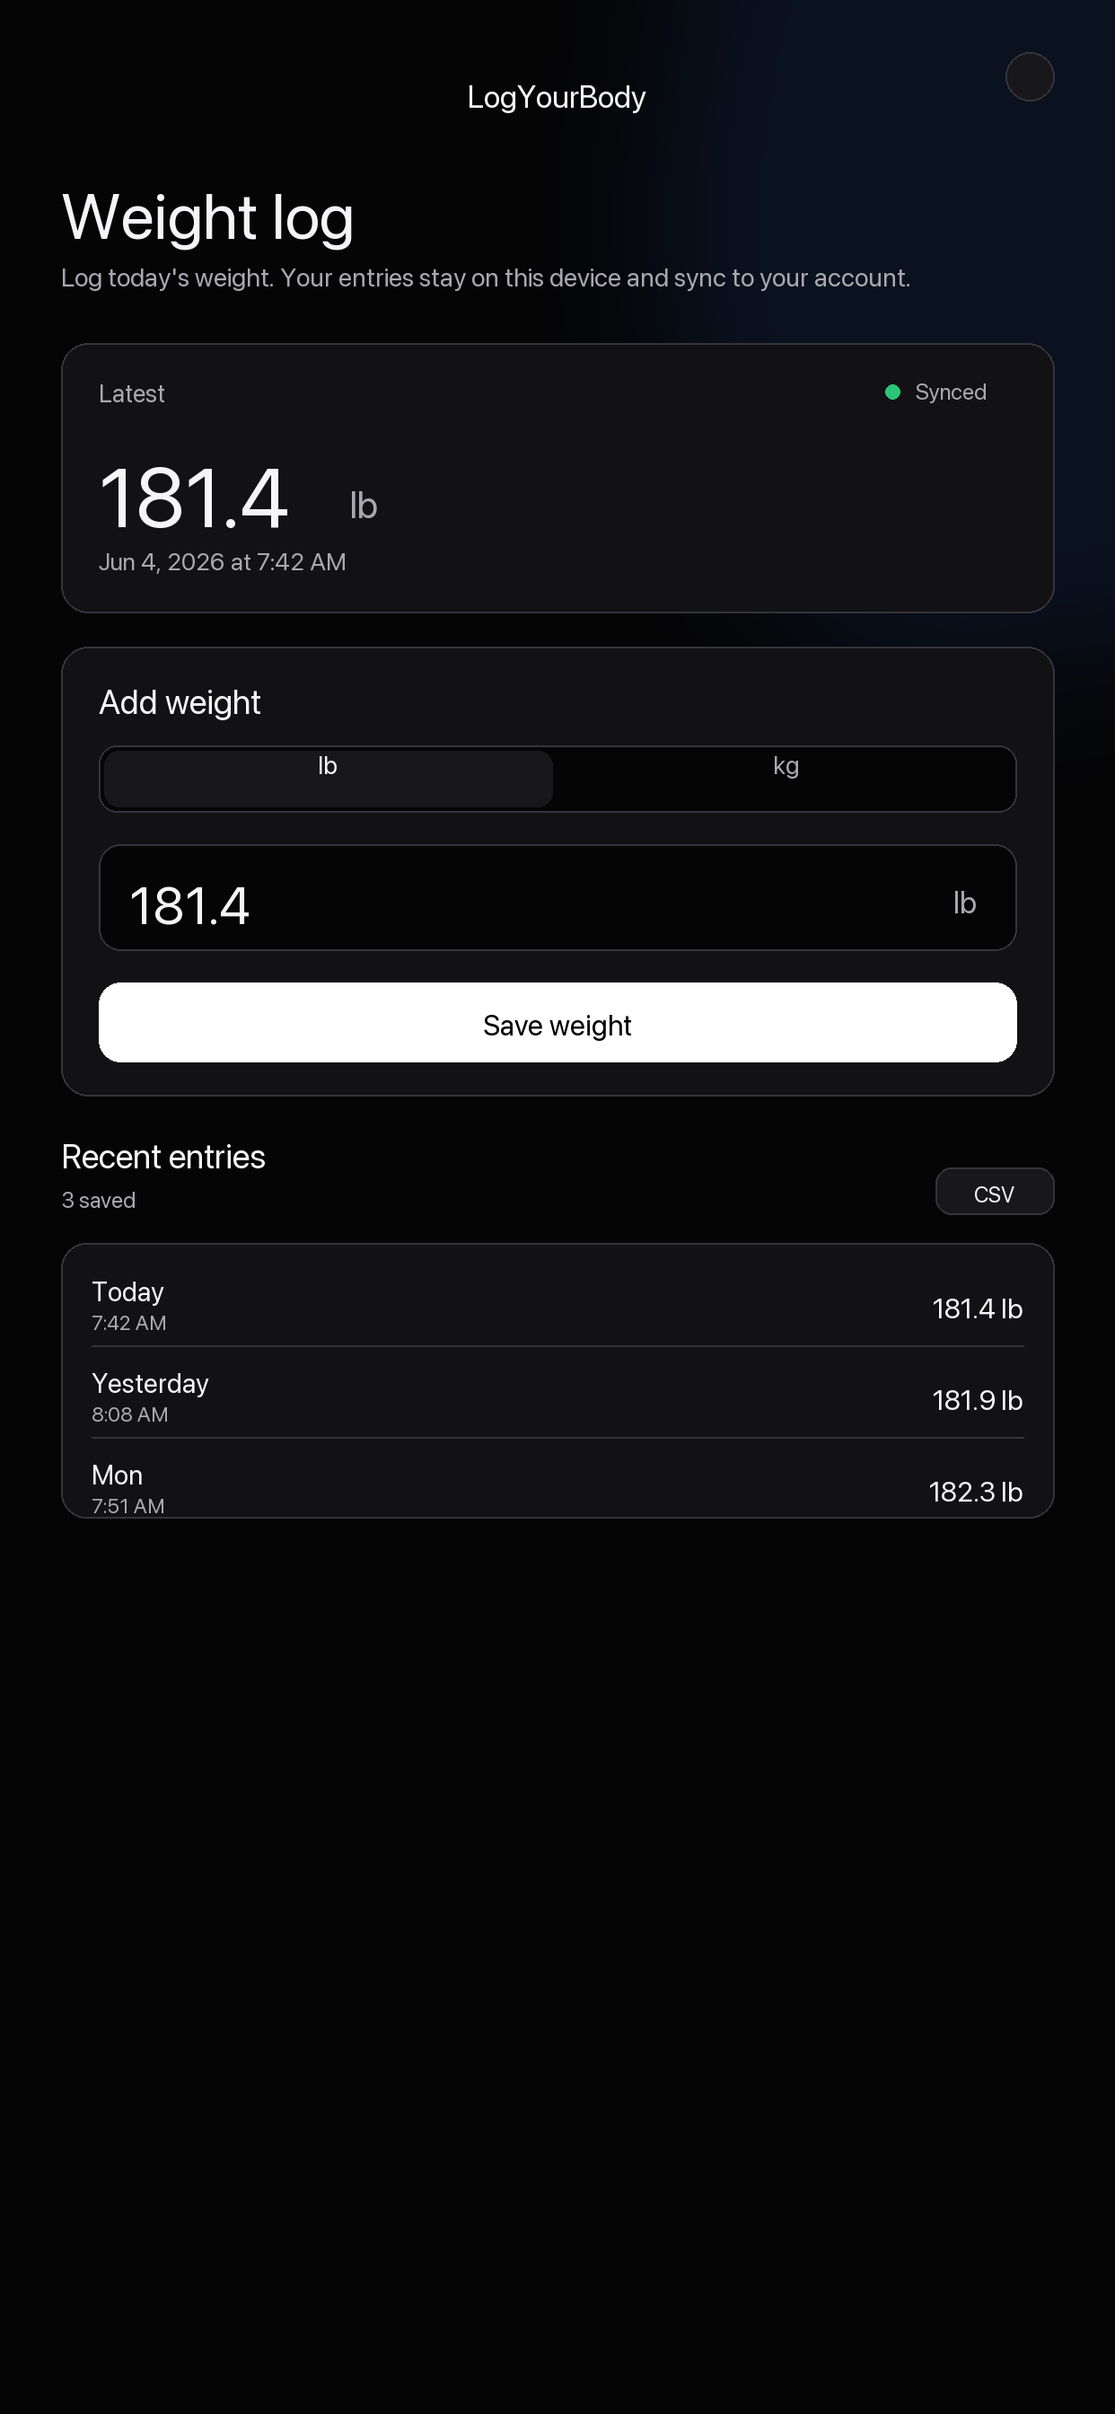
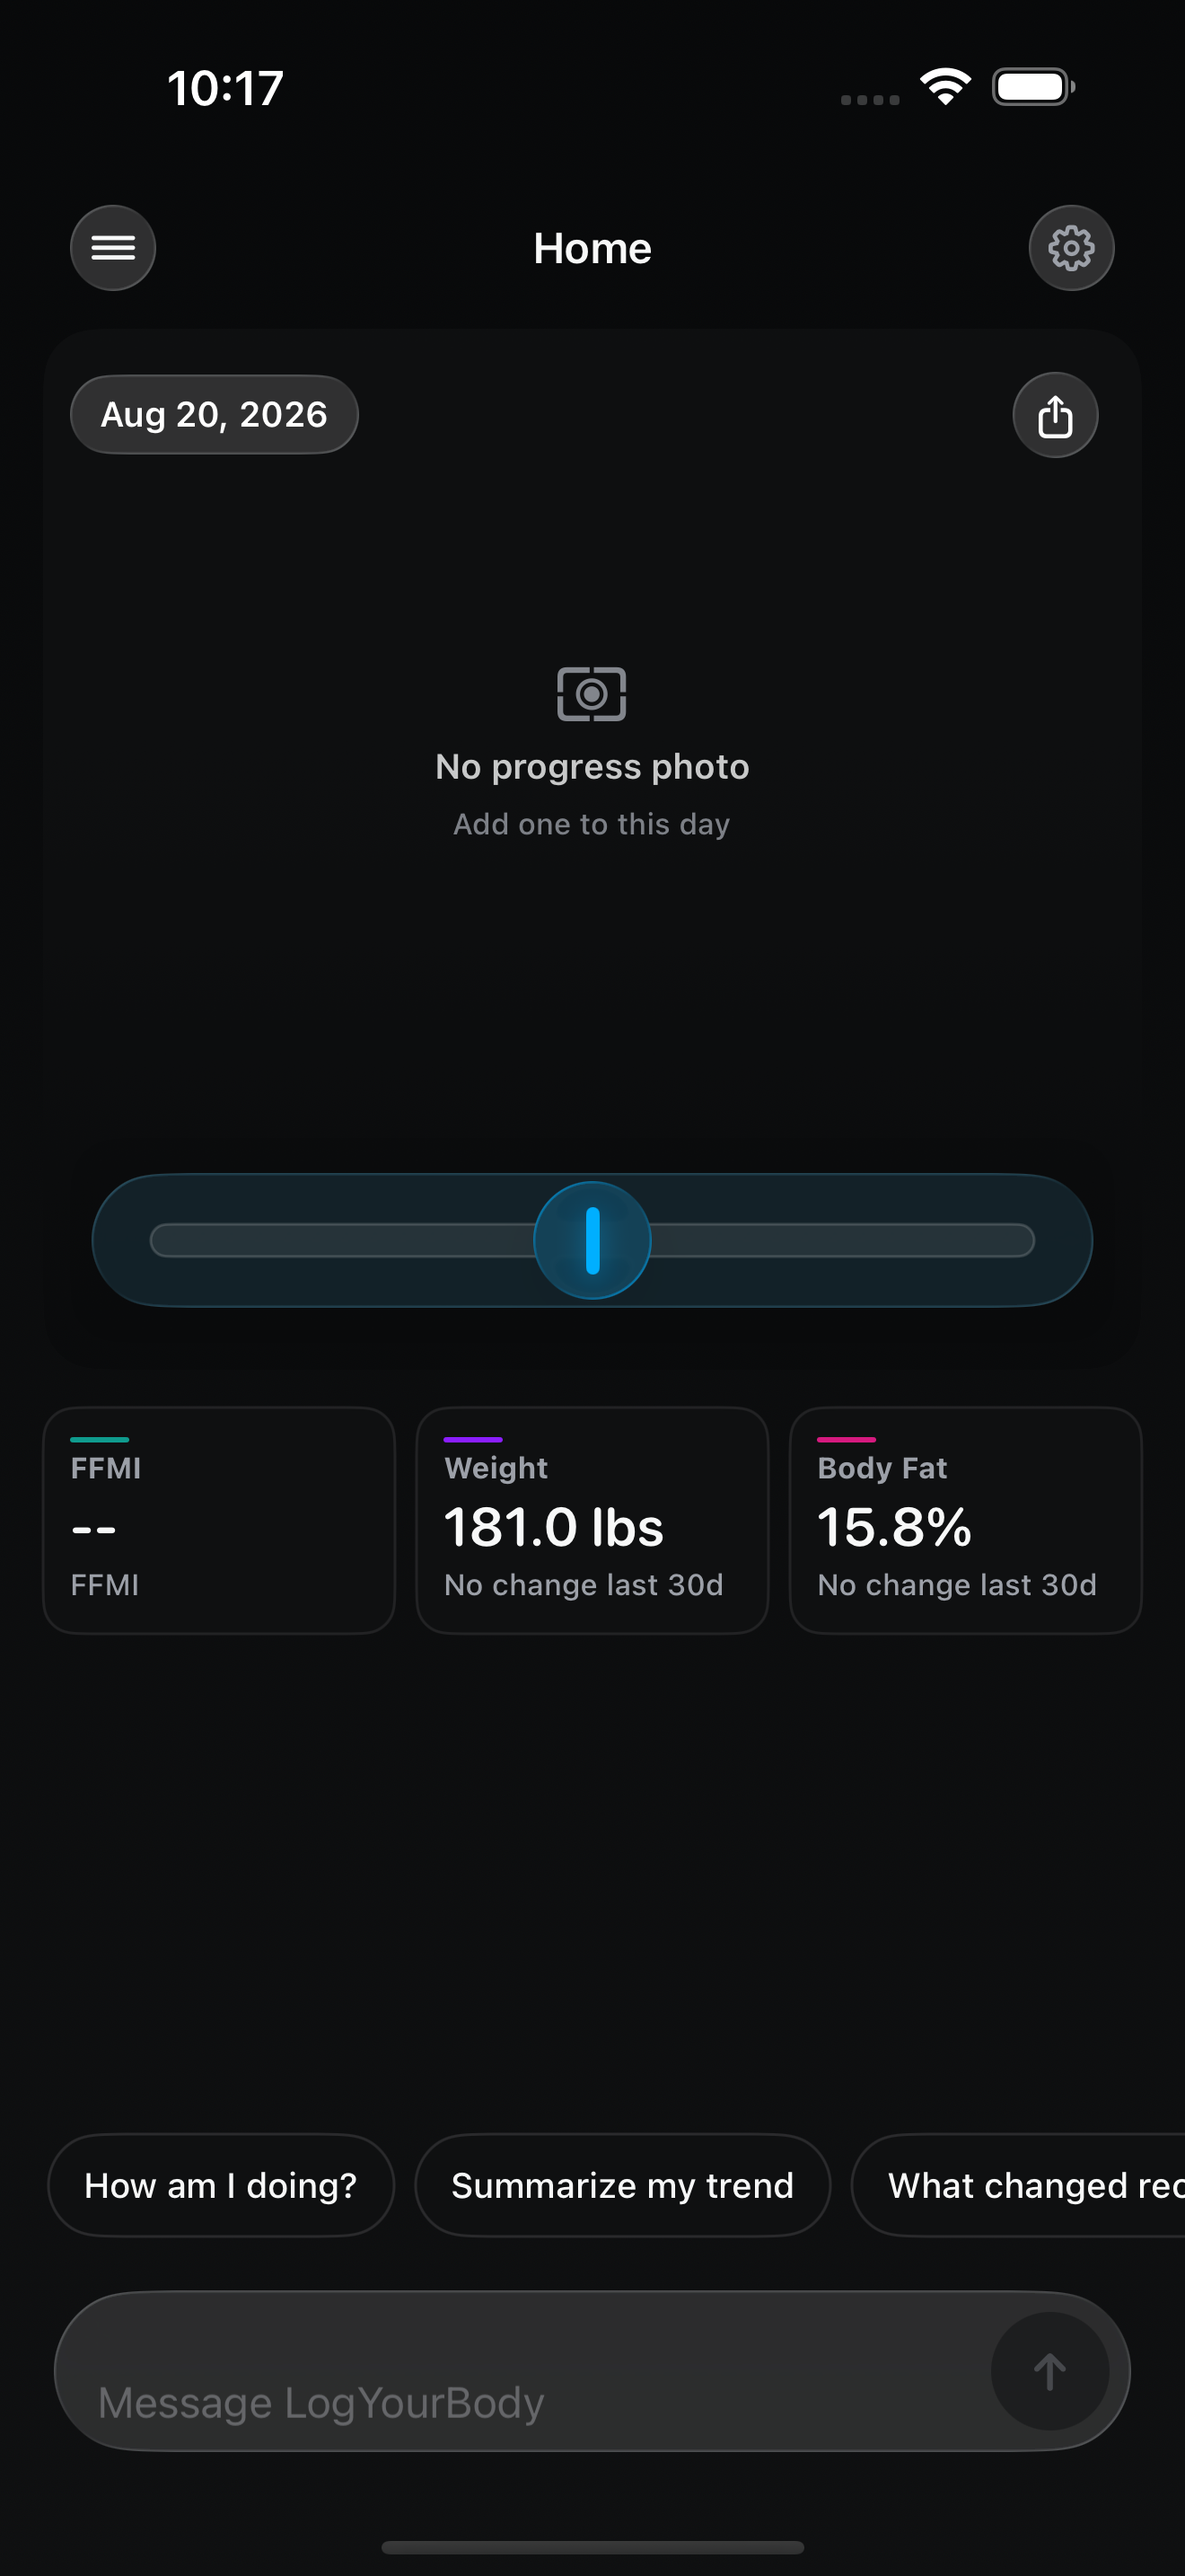
test: enforce eve and product-capture boundaries

diff --git a/packages/shared-lib/src/eve-core-chat-boundary.test.ts b/packages/shared-lib/src/eve-core-chat-boundary.test.ts
@@ -1,0 +1,91 @@
+import { execFileSync } from 'node:child_process';
+import { readFileSync } from 'node:fs';
+import { join } from 'node:path';
+import { fileURLToPath } from 'node:url';
+import { describe, expect, it } from 'vitest';
+import {
+  connectionInstruction,
+  connectionStateFromAttributes,
+} from '../../../agent/lib/account-connection';
+
+const repoRoot = fileURLToPath(new URL('../../..', import.meta.url));
+
+function readRepoFile(repoRelativePath: string): string {
+  return readFileSync(join(repoRoot, repoRelativePath), 'utf8');
+}
+
+describe('eve.dev core-chat boundary', () => {
+  const agentSource = readRepoFile('agent/agent.ts');
+  const channelSource = readRepoFile('agent/channels/eve.ts');
+  const dynamicInstructions = readRepoFile('agent/instructions/account-connection.ts');
+  const architecture = readRepoFile('docs/architecture/eve-core-chat-migration.md');
+  const packageJson = JSON.parse(readRepoFile('package.json')) as {
+    scripts?: Record<string, string>;
+    engines?: { node?: string };
+    dependencies?: Record<string, string>;
+    devDependencies?: Record<string, string>;
+  };
+
+  it('fails closed unless the server supplies the exact connected state', () => {
+    expect(connectionStateFromAttributes(undefined)).toBe('unconnected');
+    expect(connectionStateFromAttributes({})).toBe('unconnected');
+    expect(connectionStateFromAttributes({ logYourBodyConnection: true })).toBe('unconnected');
+    expect(connectionStateFromAttributes({ logYourBodyConnection: 'connected' })).toBe('connected');
+
+    expect(connectionInstruction('unconnected')).toMatch(/Do not claim access to health data/);
+    expect(connectionInstruction('connected')).toMatch(/does not grant health-data access/);
+  });
+
+  it('keeps production auth and product data unavailable in this slice', () => {
+    expect(channelSource).toMatch(/auth:\s*\[localDev\(\), placeholderAuth\(\)\]/);
+    expect(channelSource).not.toMatch(/\bnone\(/);
+    expect(channelSource).not.toMatch(/vercelOidc/);
+    expect(dynamicInstructions).toMatch(/'turn\.started'/);
+    expect(agentSource).toMatch(/external eve\.dev runtime/);
+
+    for (const tool of [
+      'agent',
+      'bash',
+      'glob',
+      'grep',
+      'read_file',
+      'todo',
+      'web_fetch',
+      'web_search',
+      'write_file',
+    ]) {
+      expect(readRepoFile(`agent/tools/${tool}.ts`)).toMatch(/disableTool/);
+    }
+  });
+
+  it('preserves the native API and isolates Eve Node requirements', () => {
+    expect(architecture).toMatch(/SwiftUI Chat -> LogYourBody first-party API -> eve runtime/);
+    expect(architecture).toMatch(/existing first-party chat route and model adapter remain active/);
+    expect(architecture).toMatch(/distinct from any internally named Jovie agent or product/);
+    expect(packageJson.engines?.node).toBe('20.x');
+    expect(packageJson.scripts?.['eve:build']).toBe('bash scripts/eve/run-node24.sh build');
+    expect(packageJson.scripts?.['eve:smoke']).toBe('bash scripts/eve/local-smoke.sh');
+    expect(packageJson.dependencies?.eve).toBe('0.27.13');
+  });
+
+  it('contains no stale job-runner references in tracked files', () => {
+    const trackedFiles = execFileSync('git', ['ls-files', '-z'], {
+      cwd: repoRoot,
+      encoding: 'utf8',
+    })
+      .split('\0')
+      .filter(Boolean);
+    const dottedName = new RegExp(['trigger', 'dev'].join('\\.'), 'i');
+    const packageName = new RegExp(['trigger', 'dev'].join(''), 'i');
+
+    const matches = trackedFiles.filter((file) => {
+      const source = readFileSync(join(repoRoot, file)).toString('utf8');
+      return dottedName.test(source) || packageName.test(source);
+    });
+
+    expect(matches).toEqual([]);
+    const dependencyScope = `@${['trigger', 'dev'].join('.')}`;
+    expect(Object.keys(packageJson.dependencies ?? {})).not.toContain(`${dependencyScope}/sdk`);
+    expect(Object.keys(packageJson.devDependencies ?? {})).not.toContain(`${dependencyScope}/build`);
+  });
+});

diff --git a/apps/web/src/lib/marketing/__tests__/marketing-product-assets.test.ts b/apps/web/src/lib/marketing/__tests__/marketing-product-assets.test.ts
@@ -24,11 +24,11 @@ describe('canonical marketing product assets', () => {
   it('requires a recent canonical product capture for marketing use', () => {
     const ageMs = Date.now() - Date.parse(productAssets.weightLog.capturedAt);
     expect(ageMs).toBeGreaterThanOrEqual(0);
-    expect(ageMs).toBeLessThanOrEqual(90 * 24 * 60 * 60 * 1000);
+    expect(ageMs).toBeLessThanOrEqual(60 * 24 * 60 * 60 * 1000);
   });
 
   it('records actual PNG dimensions instead of advertising a viewport guess', () => {
-    expect(productAssets.weightLog).toEqual(expect.objectContaining({ width: 1242, height: 2688 }));
+    expect(productAssets.weightLog).toEqual(expect.objectContaining({ width: 1320, height: 2868 }));
     expect(productAssets.appIcon).toEqual(expect.objectContaining({ width: 1024, height: 1024 }));
   });
 });

diff --git a/apps/ios/LogYourBodyUITests/LogYourBodyUITests.swift b/apps/ios/LogYourBodyUITests/LogYourBodyUITests.swift
@@ -740,7 +740,8 @@ final class LogYourBodyUITests: XCTestCase {
         launch(app, with: [
             "-lybUITestPhotoTimelineHUDFixture",
             "-lybUITestPhaseInsightFixture",
-            "-lybUITestGlp1WeeklyCheckInFixture"
+            "-lybUITestGlp1WeeklyCheckInFixture",
+            "-lybUITestChatFirstFixture"
         ])
 
         let timeline = app.descendants(matching: .any)["launch_timeline_surface"]

diff --git a/agent/instructions/account-connection.ts b/agent/instructions/account-connection.ts
@@ -7,7 +7,7 @@ import {
 
 export default defineDynamic({
   events: {
-    'session.started': (_event, ctx) => {
+    'turn.started': (_event, ctx) => {
       const state =
         process.env.LYB_EVE_LOCAL_SMOKE === '1'
           ? localConnectionFixture()

diff --git a/README.md b/README.md
@@ -12,7 +12,7 @@ The native paid iOS app is the default product. Web is marketing, legal, support
 | Cloud data    | Neon via first-party bearer APIs. Native never connects to Postgres.                                              |
 | Device data   | Core Data                                                                                                         |
 | Product shell | Timeline is paid home. Stats and Chat are peers.                                                                  |
-| Chat          | LYB-5 bearer API (`/api/auth/mobile/chat/v1`)                                                                     |
+| Chat          | LYB-5 bearer API (`/api/auth/mobile/chat/v1`); external eve.dev backend migration stays behind this contract     |
 | Photos        | Cloudflare R2 via first-party signed PUTs. Neon stores the public URL, not the bytes.                             |
 
 JOV-4831 / PR #903 owns the remaining Neon schema/sync/delete cutover, including retiring leftover Supabase photo/export/deletion helpers.
@@ -22,7 +22,7 @@ JOV-4831 / PR #903 owns the remaining Neon schema/sync/delete cutover, including
 ```
 apps/ios          Native SwiftUI app
 apps/web          Next.js marketing / legal / first-party API
-agent/            Local Vercel Eve gym-dogfood scaffold (not internal Eve)
+agent/            External eve.dev backend definition for core chat
 packages/         product-registry, shared-lib, design-tokens
 supabase/         Legacy photo/export/deletion functions until JOV-4831 cutover
 ```
@@ -47,9 +47,10 @@ From the repo root (pnpm + Turborepo):
 - `pnpm lint` / `pnpm typecheck` / `pnpm test` / `pnpm build`
 - `pnpm product:check` after registry or public-copy changes
 - `pnpm ios` to open the Xcode project
-- `pnpm eve:info` / `eve:build` / `eve:dev` run the local **Vercel Eve**
-  gym-dogfood agent. The CLI needs Node 24+; this repo stays on Node 20 for
-  web/CI. See [docs/product/vercel-eve-gym-dogfood.md](docs/product/vercel-eve-gym-dogfood.md).
+- `pnpm eve:info` / `eve:build` / `eve:dev` run the external eve.dev core-chat
+  backend definition through isolated Node 24; the web app remains on Node 20.
+- `pnpm eve:smoke` runs credential-free connected and unconnected boundary
+  evals. See [the migration boundary](docs/architecture/eve-core-chat-migration.md).
 
 ## License
 

diff --git a/AGENTS.md b/AGENTS.md
@@ -13,7 +13,7 @@ LogYourBody/
 ├── apps/
 │   ├── ios/           # Native iOS app (SwiftUI, Swift 5.9+)
 │   └── web/           # Next.js marketing/legal/API surface
-├── agent/             # Local Vercel Eve gym-dogfood scaffold (not internal Eve)
+├── agent/             # External eve.dev backend definition for core chat
 ├── packages/          # Shared packages and libraries
 │   ├── design-tokens/ # Shared design tokens
 │   ├── product-registry/ # Canonical product identity and endpoints
@@ -23,9 +23,10 @@ LogYourBody/
 └── docs/              # Project documentation
 ```
 
-`agent/` is **Vercel Eve** (https://vercel.com/docs/eve): a Tim-only local
-discovery companion. It is not the Summer / Jovie internal Eve persona. See
-[`docs/product/vercel-eve-gym-dogfood.md`](docs/product/vercel-eve-gym-dogfood.md).
+`agent/` is the external [eve.dev](https://eve.dev/) backend definition for
+LogYourBody core chat. It is not Jovie's internally named Eve agent/product,
+and the native SwiftUI client does not embed this TypeScript runtime. See
+[`docs/architecture/eve-core-chat-migration.md`](docs/architecture/eve-core-chat-migration.md).
 
 ### Monorepo Setup
 

diff --git a/docs/README.md b/docs/README.md
@@ -9,7 +9,7 @@ Product truth starts in the typed product registry, not in a page component or a
 - [Evidence and recommendation standard](product/evidence-and-recommendation-standard.md): standards for claims and recommendations.
 - [Golden path](GOLDEN_PATH.md): the paid iOS product loop.
 - [User journeys](USER_JOURNEYS.md): current tested user-facing paths.
-- [Vercel Eve gym dogfood](product/vercel-eve-gym-dogfood.md): Tim-only private discovery loop. This is Vercel Eve, not the Summer / Jovie internal Eve persona.
+- [eve.dev core-chat migration](architecture/eve-core-chat-migration.md): external runtime boundary, shared identity/account connection, authorization, privacy, rollback, and cutover gates.
 
 ## Editing product truth
 
